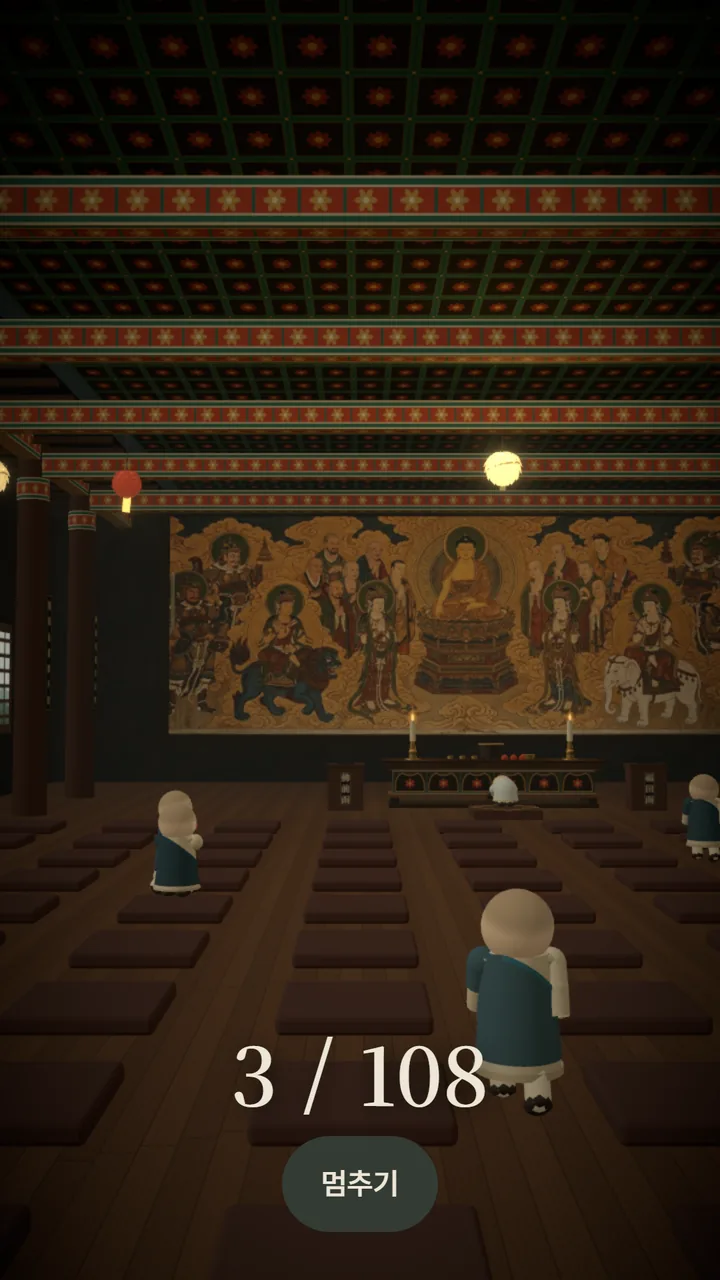
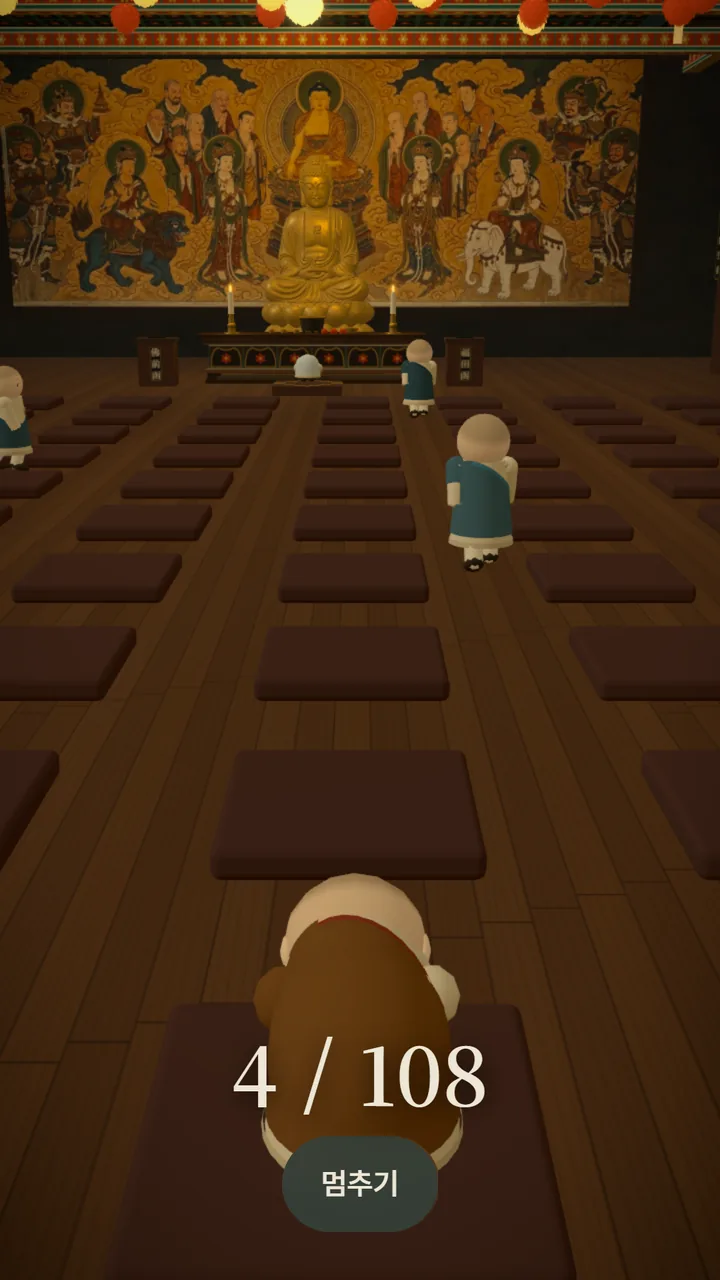
Refresh the 연화사 shots from the new store renders
법당·절하기·법문을 금빛 불상과 연등이 들어간 최신 렌더로 갈아끼우고,
낡은 '함께 참배' 한 장은 새 '연등 달기' 화면으로 바꾼다. 명상 화면은
원본이 그대로라 손대지 않았다.

diff --git a/yeonhwasa/index.html b/yeonhwasa/index.html
@@ -234,19 +234,19 @@
     <div class="label">Inside the Hall — 실제 화면</div>
     <div class="gallery">
       <figure>
-        <img src="shots/hall.webp" width="720" height="1280" loading="lazy" alt="정적당 법당 안. 단청 입힌 우물천장 아래 부처와 보살이 그려진 탱화가 걸려 있고, 그 앞 불단에 촛불 두 자루가 켜져 있다. 바닥에는 방석이 열 줄로 놓였고 동자승 둘이 서 있다. 아래에 절하기·향 피우기·연등 달기·명상·더보기 버튼이 있다.">
+        <img src="shots/hall.webp" width="720" height="1280" loading="lazy" alt="정적당 법당 안. 단청 입힌 우물천장 아래 연등 수십 개가 줄지어 밝혀져 있고, 그 아래 금빛 불상이 탱화를 등지고 앉아 있다. 불단에는 촛불 두 자루가 켜져 있고 바닥에는 방석이 열 줄로 놓였다. 방석 사이에 동자승이 서 있고, 아래에 절하기·향 피우기·연등 달기·명상·더보기 버튼이 있다.">
         <figcaption class="cap"><span>FIG. 02</span><span>정적당 — 들어선 자리</span></figcaption>
       </figure>
       <figure>
-        <img src="shots/bowing.webp" width="720" height="1280" loading="lazy" alt="절하기 화면. 방석 앞에 선 동자승 뒤로 법당이 보이고 화면 가운데 아래에 3 / 108 이라는 큰 숫자와 '멈추기' 버튼이 있다.">
+        <img src="shots/bowing.webp" width="720" height="1280" loading="lazy" alt="절하기 화면. 방석에 엎드려 절하는 동자승 너머로 금빛 불상과 탱화가 보이고, 법당 안 다른 동자승 셋도 저마다 자리에 서 있다. 화면 가운데 아래에 4 / 108 이라는 큰 숫자와 '멈추기' 버튼이 있다.">
         <figcaption class="cap"><span>FIG. 03</span><span>108배 — 횟수는 앱이 센다</span></figcaption>
       </figure>
       <figure>
-        <img src="shots/together.webp" width="720" height="1280" loading="lazy" alt="같은 법당 안에서 동자승 넷이 저마다 다른 자리에 있다. 한 동자승은 방석에 엎드려 절하는 중이고 나머지는 불단 쪽을 향해 서 있다. 상단에 접속자 수 1이 표시된다.">
-        <figcaption class="cap"><span>FIG. 04</span><span>함께 참배 — 같은 시각의 사람들</span></figcaption>
+        <img src="shots/lantern.webp" width="720" height="1280" loading="lazy" alt="동자승이 붉은 연등 하나를 들고 있다. 연등 아래에는 소원을 적은 종이 띠가 달려 있고, 열린 문 너머로 해질녘 산과 숲이 보인다.">
+        <figcaption class="cap"><span>FIG. 04</span><span>연등 달기 — 소원 한 줄을 매단다</span></figcaption>
       </figure>
       <figure>
-        <img src="shots/dharma.webp" width="720" height="1280" loading="lazy" alt="오늘의 법문 시트가 법당 위로 올라와 있다. 테두리를 두른 카드 안에 '향 연기는 곧게 오르다 흩어진다. 삶도 그렇다.'와 '연화사'가 적혀 있고, 아래에 '공유하기' 버튼과 '법문은 한국 날짜로 하루에 한 장 바뀝니다.'라는 안내가 있다.">
+        <img src="shots/dharma.webp" width="720" height="1280" loading="lazy" alt="오늘의 법문 시트가 연등이 걸린 법당 위로 올라와 있다. 테두리를 두른 카드 안에 '애쓴 하루에 수고했다고 말해 준다.'와 '연화사'가 적혀 있고, 아래에 '공유하기' 버튼과 '법문은 한국 날짜로 하루에 한 장 바뀝니다.'라는 안내가 있다.">
         <figcaption class="cap"><span>FIG. 05</span><span>오늘의 법문 — 하루 한 장</span></figcaption>
       </figure>
       <figure>
